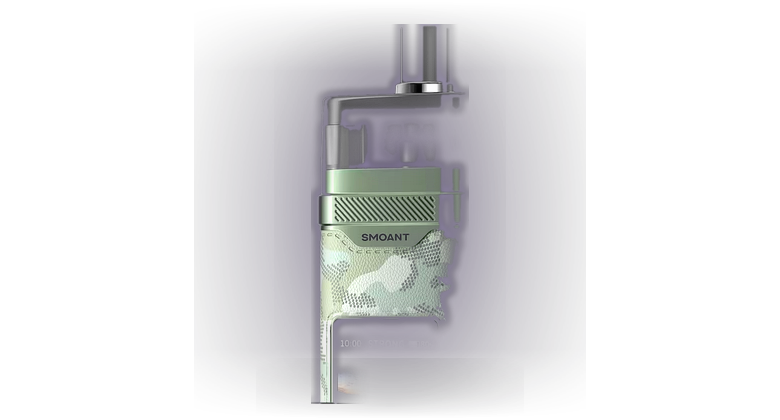
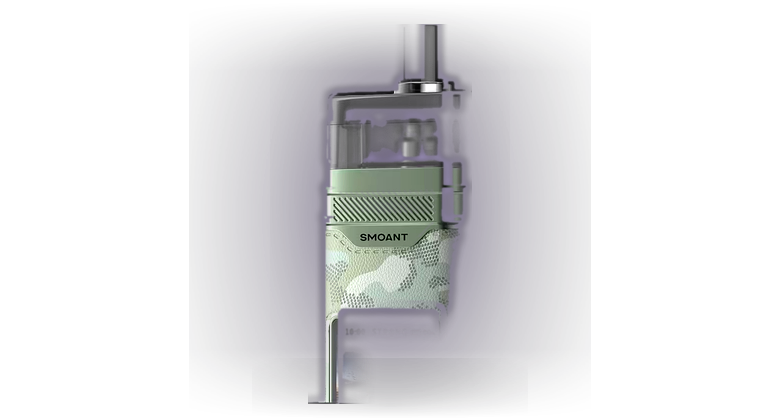
Fix buggy product images: PASITO 3 colors (clean stencil), XROS MINI Fresh (remove white background through pod), HERO 5 Gradient (add per-color Fizzy images)

Changed region(s): [[0.4, 0.0619, 0.6154, 0.9595], [0.4923, 0.0619, 0.5231, 0.1548]]

diff --git a/products.js b/products.js
@@ -312,6 +312,7 @@ const COLOR_PHOTOS = {
   dev16: {"Arctic Blue":"img/c/dev16__arctic-blue.png", "Jungle Green":"img/c/dev16__jungle-green.png", "Midnight Dark":"img/c/dev16__midnight-dark.png", "Polar Silver":"img/c/dev16__polar-silver.png", "Purple Bloom":"img/c/dev16__purple-bloom.png", "Sunset Red":"img/c/dev16__sunset-red.png"},
   dev17: {"Baby Blue":"img/c/dev17__baby-blue.png", "Dark Indigo":"img/c/dev17__dark-indigo.png", "Matte Silver":"img/c/dev17__matte-silver.png", "Spring Green":"img/c/dev17__spring-green.png", "Space Gray":"img/c/dev17__space-gray.png"},
   dev18: {"Aqua":"img/c/dev18__aqua.png", "Black":"img/c/dev18__black.png", "Blue":"img/c/dev18__blue.png", "Grey":"img/c/dev18__grey.png", "Lavender":"img/c/dev18__lavender.png", "Sakura":"img/c/dev18__sakura.png"},
+  dev19: {"Fizzy Black":"img/c/dev19__fizzy-black.png", "Fizzy Purple":"img/c/dev19__fizzy-purple.png", "Fizzy Blue":"img/c/dev19__fizzy-blue.png", "Fizzy Red":"img/c/dev19__fizzy-red.png"},
   dev20: {"Ocean Blue":"img/c/dev20__ocean-blue.png", "Olive Green":"img/c/dev20__olive-green.png", "Moonlight Silver":"img/c/dev20__moonlight-silver.png", "Fizzy Peach":"img/c/dev20__fizzy-peach.png", "Metallic Purple":"img/c/dev20__metallic-purple.png", "Misty Blue":"img/c/dev20__misty-blue.png"},
   dev21: {"Blue Azure":"img/c/dev21__blue-azure.png", "Blue Nuit":"img/c/dev21__blue-nuit.png", "Camouflage Green":"img/c/dev21__camouflage-green.png", "Classical Red":"img/c/dev21__classical-red.png", "Matte Black":"img/c/dev21__matte-black.png", "Pepper White":"img/c/dev21__pepper-white.png", "Rococo Purple":"img/c/dev21__rococo-purple.png", "Space Gray":"img/c/dev21__space-gray.png"},
 };

diff --git a/index.html b/index.html
@@ -5,7 +5,7 @@
 <meta name="viewport" content="width=device-width, initial-scale=1, maximum-scale=1, user-scalable=no">
 <title>VapeOasis — мини-приложение</title>
 <script src="https://telegram.org/js/telegram-web-app.js"></script>
-<link rel="stylesheet" href="style.css?v=20261011d">
+<link rel="stylesheet" href="style.css?v=20261011e">
 </head>
 <body>
 <div id="fx"></div>
@@ -82,7 +82,7 @@
 
 <div class="sheet" id="sheet"><div class="in" id="sheetIn"></div></div>
 
-<script src="products.js?v=20261011d"></script>
-<script src="app.js?v=20261011d"></script>
+<script src="products.js?v=20261011e"></script>
+<script src="app.js?v=20261011e"></script>
 </body>
 </html>

diff --git a/app.js b/app.js
@@ -20,7 +20,7 @@ let discountPick = localStorage.getItem("vo_disc") || null; // жижа, на к
 
 const $ = s=>document.querySelector(s);
 const money = n=>n+"₽";
-const IMG_VER = "20261011d";
+const IMG_VER = "20261011e";
 const imgv = u => u ? (u.indexOf("?")>=0 ? u : u+"?v="+IMG_VER) : u;
 const byId = id=>PRODUCTS.find(p=>p.id===id);
 const catEmoji = c=>({liquids:"🧪",pods:"🔌",disposable:"💨",cartridges:"♻",snus:"📦"}[c]||"•");
